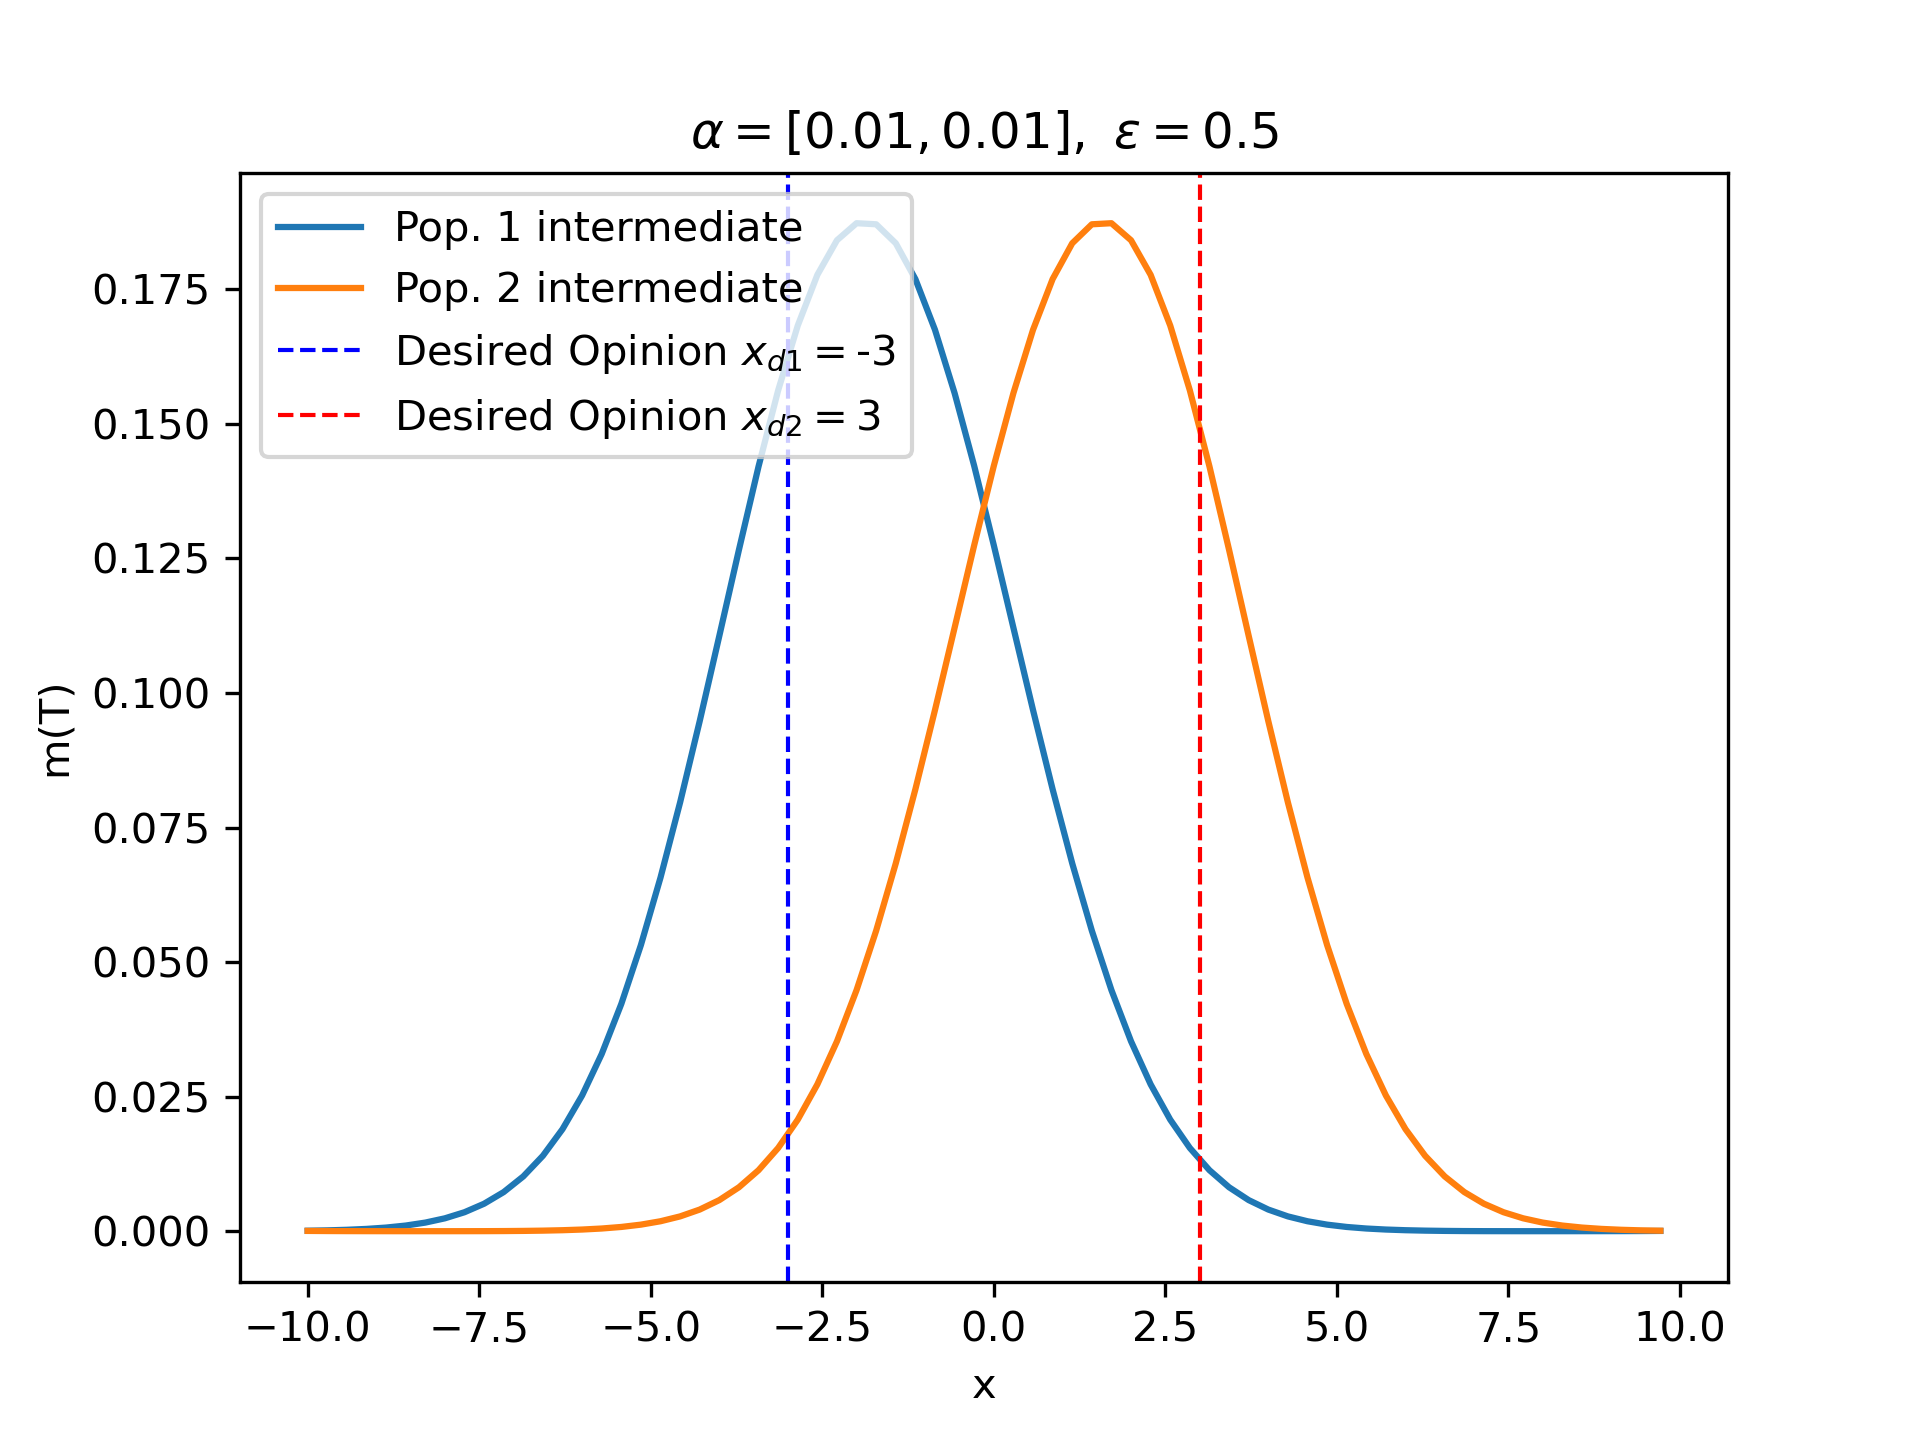
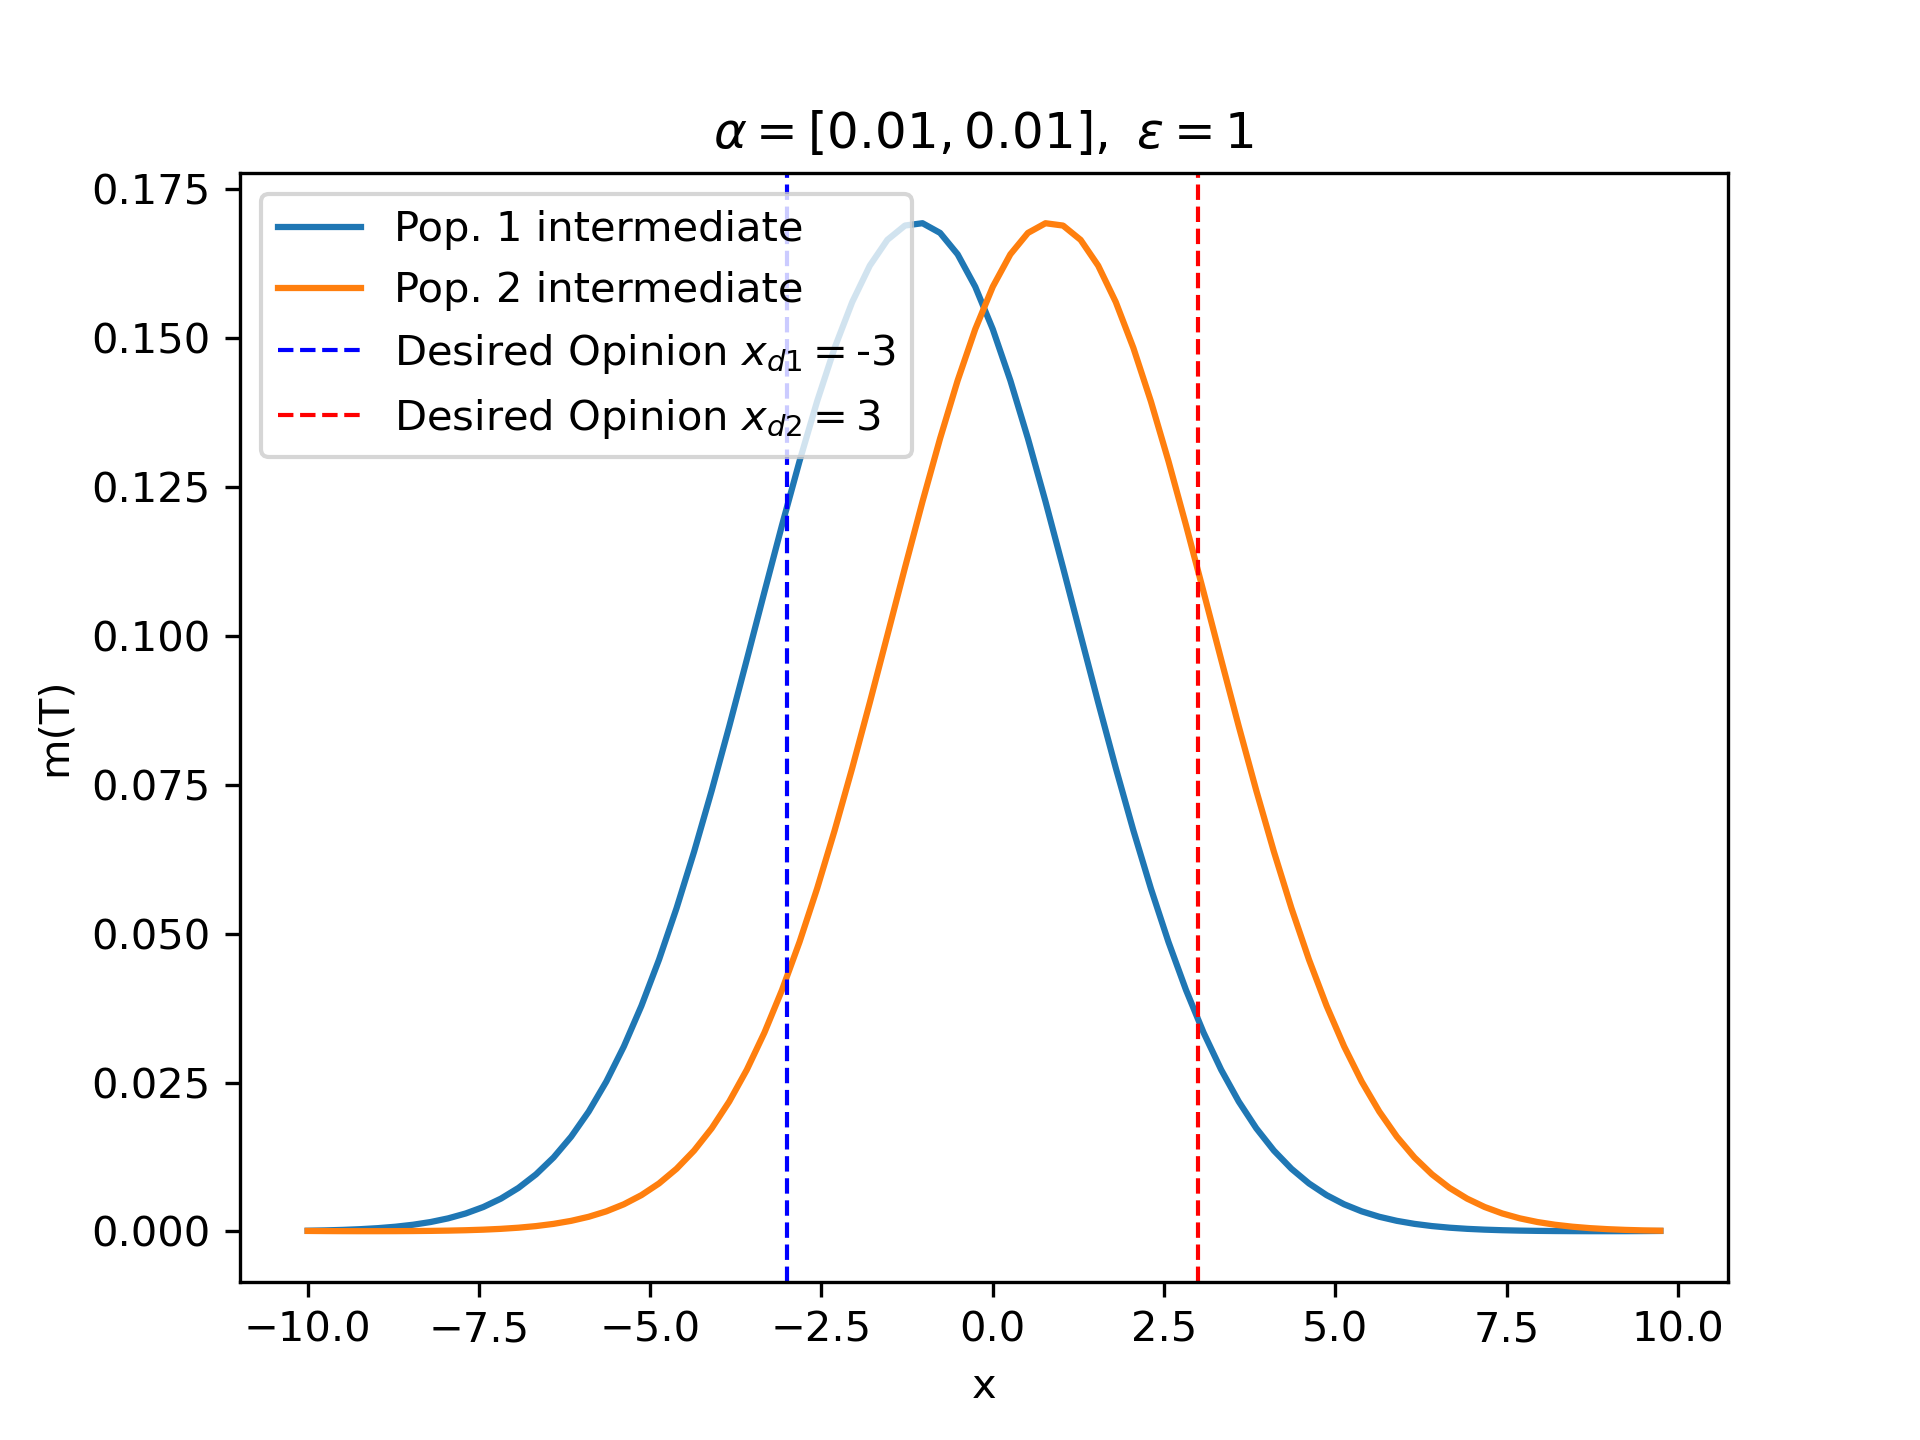
new changes

diff --git a/experiments/two_populaional.py b/experiments/two_populaional.py
@@ -30,13 +30,13 @@ class TwoPopulationMFG(object):
     def mu0(self, x, population_index):
         a, b = -5, 5
         if population_index == 0:
-            midpoint = -0.5
-            sigma_mu = 1
+            midpoint = -2
+            sigma_mu = 2
 
             return truncnorm.pdf(x, a =a, b=b, loc=midpoint, scale=sigma_mu)
         elif population_index == 1:
-            midpoint = 0.5
-            sigma_mu = 1
+            midpoint = 2
+            sigma_mu = 2
 
             return truncnorm.pdf(x, a =a, b=b, loc=midpoint, scale=sigma_mu)
 
@@ -81,7 +81,7 @@ class TwoPopulationMFG(object):
 
         M0 = self.mu0(self.x_grid, idx)  # Assuming mu0 returns an array of shape (N,)
         UT = vmap(self.uT, in_axes=(0, None))(self.x_grid, idx)
-        U = U.at[self.Nt, :].set(UT)
+        # U = U.at[self.Nt, :].set(UT)
         M = M.at[0, :].set(M0)
         return U, M
 
@@ -291,16 +291,16 @@ class TwoPopulationMFG(object):
 
 
 cfg = munch.munchify({
-    'T' : 7,
-    'Nt': 30,
+    'T' : 1,
+    'Nt': 20,
     'xl': -10,
     'xr': 10,
-    'N' : 70,
+    'N' : 90,
     'nu': 1,
     'alphas': [0.01, 0.01],
-    'sigmas': [0.5, 0.5],
-    'lambdas': [0.5, 0.5],
-    'eps': 0.5,
+    'sigmas': [1, 1],
+    'lambdas': [0.3, 0.7],
+    'eps': 1,
     'hjb_epoch': 100,
     'hjb_lr': 1,
     'epoch': 50,
@@ -333,23 +333,23 @@ plt.legend()
 plt.show()
 
 # Final distribution for both populations with updated legends
-plt.figure()
-plt.plot(XX, M1[15, :], label='Pop. 1 intermediate')  # More descriptive name for M1(T)
-plt.plot(XX, M2[15, :], label='Pop. 2 intermediate')  # More descriptive name for M2(T)
-
-plt.axvline(x=x_d1, color='Blue', linestyle='--', linewidth=1, label=r'Desired Opinion $x_{d1}=$' + f'{x_d1}')  # LaTeX for subscript
-plt.axvline(x=x_d2, color='Red', linestyle='--', linewidth=1, label=r'Desired Opinion $x_{d2}=$' + f'{x_d2}')  # LaTeX for subscript
-plt.xlabel('x')
-plt.ylabel('m(T)')
-plt.title(r"$\alpha=" +f"{cfg.alphas}" +r",\ \varepsilon=" +f"{cfg.eps}$")
-plt.legend(loc='upper left')  # Display the legend with subscript notation
-plt.savefig('inter_Distribution.png', format='png', dpi=300)
-plt.show()
+# plt.figure()
+# plt.plot(XX, M1[15, :], label='Pop. 1 intermediate')  # More descriptive name for M1(T)
+# plt.plot(XX, M2[15, :], label='Pop. 2 intermediate')  # More descriptive name for M2(T)
+#
+# plt.axvline(x=x_d1, color='Blue', linestyle='--', linewidth=1, label=r'Desired Opinion $x_{d1}=$' + f'{x_d1}')  # LaTeX for subscript
+# plt.axvline(x=x_d2, color='Red', linestyle='--', linewidth=1, label=r'Desired Opinion $x_{d2}=$' + f'{x_d2}')  # LaTeX for subscript
+# plt.xlabel('x')
+# plt.ylabel('m(T)')
+# plt.title(r"$\alpha=" +f"{cfg.alphas}" +r",\ \varepsilon=" +f"{cfg.eps}$")
+# plt.legend(loc='upper left')  # Display the legend with subscript notation
+# plt.savefig('inter_Distribution.png', format='png', dpi=300)
+# plt.show()
 
 # Final distribution for both populations with updated legends
 plt.figure()
-plt.plot(XX, M1[0, :], label='Pop. 1 initial')  # More descriptive name for M1(T)
-plt.plot(XX, M2[0, :], label='Pop. 2 initial')  # More descriptive name for M2(T)
+plt.plot(XX, M1[0, :], label=f'Mean: {str(round(XX[np.argmax(M1[0, :])], 2))}')  # More descriptive name for M1(T)
+plt.plot(XX, M2[0, :], label=f'Mean: {str(round(XX[np.argmax(M2[0, :])], 2))}')  # More descriptive name for M2(T)
 plt.xlabel('x')
 plt.ylabel('m(T)')
 plt.title(r"$\alpha=" +f"{cfg.alphas}" +r",\ \varepsilon=" +f"{cfg.eps}$")
@@ -359,12 +359,12 @@ plt.show()
 
 # Final distribution for both populations with updated legends
 plt.figure()
-plt.plot(XX, M1[-1, :], label='Pop. 1 final')  # More descriptive name for M1(T)
-plt.plot(XX, M2[-1, :], label='Pop. 2 final')  # More descriptive name for M2(T)
-plt.axvline(x=x_d1, color='Blue', linestyle='--', linewidth=1, label=r'Desired Opinion $x_{d1}=$' + f'{x_d1}')  # LaTeX for subscript
-plt.axvline(x=x_d2, color='Red', linestyle='--', linewidth=1, label=r'Desired Opinion $x_{d2}=$' + f'{x_d2}')  # LaTeX for subscript
+plt.plot(XX, M1[-1, :], label=f'Mean: {str(round(XX[np.argmax(M1[-1, :])], 2))}')  # More descriptive name for M1(T)
+plt.plot(XX, M2[-1, :], label=f'Mean: {str(round(XX[np.argmax(M2[-1, :])], 2))}')  # More descriptive name for M2(T)
+# plt.axvline(x=x_d1, color='Blue', linestyle='--', linewidth=1, label=r'Desired Opinion $x_{d1}=$' + f'{x_d1}')  # LaTeX for subscript
+# plt.axvline(x=x_d2, color='Red', linestyle='--', linewidth=1, label=r'Desired Opinion $x_{d2}=$' + f'{x_d2}')  # LaTeX for subscript
 plt.xlabel('x')
-plt.ylabel('m(T)')
+plt.ylabel('m(T) final')
 plt.title(r"$\alpha=" +f"{cfg.alphas}" +r",\ \varepsilon=" +f"{cfg.eps}$")
 plt.legend(loc='upper left')  # Display the legend with subscript notation
 plt.savefig('Final_Distribution.png', format='png', dpi=300)

diff --git a/experiments/three_populational.py b/experiments/three_populational.py
@@ -6,8 +6,8 @@ import munch
 import os
 import numpy as np
 
-x_d1 = -2
-x_d3 = 2
+x_d1 = -3
+x_d3 = 3
 
 os.environ["JAX_TRACEBACK_FILTERING"]="off"
 # os.environ["XLA_PYTHON_CLIENT_ALLOCATOR"]="platform"
@@ -31,7 +31,7 @@ class ThreePopulationMFG(object):
         self.h = (xr - xl) / N
 
     def mu0(self, x, population_index):
-        a, b = -3, 3
+        a, b = -5, 5
         if population_index == 0:
             midpoint = -0.5
             sigma_mu = 1
@@ -67,7 +67,7 @@ class ThreePopulationMFG(object):
         if (population_index == 0 and r == 2) or (population_index == 2 and r == 0):
             distances = 0
 
-        integral_approx = jnp.sum(self.local_kernel(Xtk, y) * mu_r_t) * self.h
+        integral_approx = jnp.sum(self.local_kernel(Xtk, y)) * self.h
         denominator_terms.append(lambda_r * integral_approx * distances)
         denominator = jnp.sum(jnp.array(denominator_terms))
 
@@ -85,7 +85,7 @@ class ThreePopulationMFG(object):
 
         M0 = self.mu0(self.x_grid, idx)  # Assuming mu0 returns an array of shape (N,)
         UT = vmap(self.uT, in_axes=(0, None))(self.x_grid, idx)
-        # U = U.at[self.Nt, :].set(UT)
+        U = U.at[self.Nt, :].set(UT)
         M = M.at[0, :].set(M0)
         return U, M
 
@@ -319,21 +319,21 @@ class ThreePopulationMFG(object):
 np.set_printoptions(precision=20)
 
 cfg = munch.munchify({
-    'T' : 5,
-    'Nt': 35,
+    'T' : 15,
+    'Nt': 30,
     'xl': -10,
     'xr': 10,
-    'N' : 70,
+    'N' : 60,
     'nu': 0.5,
-    'alphas': [0.01, 0.5, 0.01],
+    'alphas': [0.01, 0.01, 0.01],
     'sigmas': [0.5, 0.5, 0.5],
     'lambdas':[1/3, 1/3, 1/3],
-    'eps': 0.5,
+    'eps': 1,
     'hjb_epoch': 50,
     'hjb_lr': 1,
     'epoch': 50,
-    'lr': 0.8,
-    'tol' : 10 ** (-6),
+    'lr': 1,
+    'tol' : 10 ** (-5),
 })
 
 solver = ThreePopulationMFG(T=cfg.T, Nt=cfg.Nt, xl=cfg.xl, xr=cfg.xr, N=cfg.N, nu=cfg.nu, alphas=cfg.alphas, sigmas=cfg.sigmas, lambdas=cfg.lambdas, eps=cfg.eps)
@@ -344,6 +344,7 @@ TT, XX = jnp.meshgrid(TT, XX)
 
 # U, M = solver.solve_mfg(cfg.lr, cfg.tol, cfg.epoch)
 U1, M1, U2, M2, U3, M3 = solver.solve(cfg.tol, cfg.epoch, cfg.hjb_lr, cfg.hjb_epoch)
+
 
 # Assuming cfg, U1, U2, M1, M2, x_d1, and x_d2 are already defined
 TT = np.linspace(0, cfg.T, cfg.Nt + 1)
@@ -367,23 +368,25 @@ plt.plot(XX, M2[0, :], label="Pop. 2")
 plt.plot(XX, M3[0, :], label="Pop. 3")
 # plt.axvline(x=x_d1, color='Blue', linestyle='--', linewidth=1, label=r'Line at $x_{d1}=$' + f'{x_d1}')
 # plt.axvline(x=x_d3, color='Green', linestyle='--', linewidth=1, label=r'Line at $x_{d1}=$' + f'{x_d3}')
+plt.title(r"$\alpha=" +f"{cfg.alphas}" +r",\ \varepsilon=" +f"{cfg.eps}$")
 plt.xlabel('x')
 plt.ylabel('m(T)')
 plt.legend()
-plt.savefig("final_good.png", dpi=300)
+plt.savefig("init_good.png", dpi=300)
 plt.show()
 
 # Final distribution for both populations
 plt.figure()
-plt.plot(XX, M1[30, :], label="Pop. 1")
-plt.plot(XX, M2[30, :], label="Pop. 2")
-plt.plot(XX, M3[30, :], label="Pop. 3")
+plt.plot(XX, M1[15, :], label="Pop. 1")
+plt.plot(XX, M2[15, :], label="Pop. 2")
+plt.plot(XX, M3[15, :], label="Pop. 3")
 plt.axvline(x=x_d1, color='Blue', linestyle='--', linewidth=1, label=r'Desired opinion $x_{d1}=$' + f'{x_d1}')
 plt.axvline(x=x_d3, color='Green', linestyle='--', linewidth=1, label=r'Desired opinion $x_{d1}=$' + f'{x_d3}')
+plt.title(r"$\alpha=" +f"{cfg.alphas}" +r",\ \varepsilon=" +f"{cfg.eps}$")
 plt.xlabel('x')
 plt.ylabel('m(T)')
 plt.legend()
-plt.savefig("final_good.png", dpi=300)
+plt.savefig("inter_good.png", dpi=300)
 plt.show()
 
 # Final distribution for both populations
@@ -393,6 +396,7 @@ plt.plot(XX, M2[-1, :], label="Pop. 2")
 plt.plot(XX, M3[-1, :], label="Pop. 3")
 plt.axvline(x=x_d1, color='Blue', linestyle='--', linewidth=1, label=r'Desired opinion $x_{d1}=$' + f'{x_d1}')
 plt.axvline(x=x_d3, color='Green', linestyle='--', linewidth=1, label=r'Desired opinion $x_{d1}=$' + f'{x_d3}')
+plt.title(r"$\alpha=" +f"{cfg.alphas}" +r",\ \varepsilon=" +f"{cfg.eps}$")
 plt.xlabel('x')
 plt.ylabel('m(T)')
 plt.legend()

diff --git a/experiments/one_populational.py b/experiments/one_populational.py
@@ -59,8 +59,8 @@ class OnePopulationalMFG(object):
         #return jnp.ones(x.shape) / (self.xr - self.xl) # we impose the uniform distribution on [-1, 1]
 
         # midpoint = (self.xr + self.xl) / 2
-        midpoint = 0.5
-        sigma_mu = 1  # Define your standard deviation
+        midpoint = 1.0
+        sigma_mu = 2  # Define your standard deviation
         return truncnorm.pdf(x, loc=midpoint, a=-5, b=5, scale=sigma_mu)
 
     def uT(self, x):
@@ -263,14 +263,14 @@ class OnePopulationalMFG(object):
         return U, M
 
 cfg = munch.munchify({
-    'T' : 7,
-    'Nt': 70,
+    'T' : 1,
+    'Nt': 20,
     'xl': -10,
     'xr': 10,
-    'N' : 60,
-    'nu': 0.5,
+    'N' : 110,
+    'nu': 1,
     'alpha': 0.01,
-    'eps': 0.5,
+    'eps': 1,
     'hjb_epoch': 100,
     'hjb_lr': 1,
     'epoch': 100,
@@ -280,7 +280,7 @@ cfg = munch.munchify({
 
 dt = cfg.T / cfg.Nt
 dx = (cfg.xr-cfg.xl)/cfg.N
-if  (2* cfg.nu * dt)<= dx**2:
+if  not (2* cfg.nu * dt)<= dx**2:
     solver = OnePopulationalMFG(cfg.T, cfg.Nt, cfg.xl, cfg.xr, cfg.N, cfg.nu, cfg.alpha, cfg.eps)
 
     TT = jnp.linspace(0, cfg.T, cfg.Nt + 1)
@@ -302,11 +302,11 @@ if  (2* cfg.nu * dt)<= dx**2:
 
     # Plot for M[-1, :] with a vertical line at x_d
     fig = plt.figure()
-    plt.plot(XX, M[0, :], label=r"Initial Distribution")
-    plt.plot(XX, M[-1, :], label=r"Final Distribution")
+    plt.plot(XX, M[0, :], label=r"Initial mean: 1.0")
+    plt.plot(XX, M[-1, :], label=f"Final mean: {str(round(XX[np.argmax(M[-1, :])], 2))}")
 
     # param_legend = [Line2D([0], [0], color='none', label=r"$\alpha=\frac{1}{2}, \varepsilon=1$")]
-    plt.axvline(x=x_d, color='r', linestyle='--', label=r"Desired opinion $x_{d}$=" + f'{x_d}')
+    plt.axvline(x=(XX[np.argmax(M[-1, :])]), color='r', linestyle='--',)
 
     plt.xlabel(r"$x$")
     plt.ylabel(r"$m(T)$")

diff --git a/experiments/two_pop_simplified.py b/experiments/two_pop_simplified.py
@@ -250,7 +250,7 @@ plt.axvline(x=x_d2, color='Green', linestyle='--', linewidth=1, label=r'Line at 
 plt.xlabel('x')
 plt.ylabel('m(T)')
 plt.legend()
-plt.savefig("final_good.png", dpi=300)
+plt.savefig("final_good1.png", dpi=300)
 plt.show()
 
 # 3D surface plot for value function U1

diff --git a/experiments/two_simple.py b/experiments/two_simple.py
@@ -231,7 +231,7 @@ plt.axvline(x=x_d2, color='Green', linestyle='--', linewidth=1, label=r'Line at 
 plt.xlabel('x')
 plt.ylabel('m(T)')
 plt.legend()
-plt.savefig("final_good.png", dpi=300)
+plt.savefig("final_good1.png", dpi=300)
 plt.show()
 
 # 3D surface plot for value function U1
